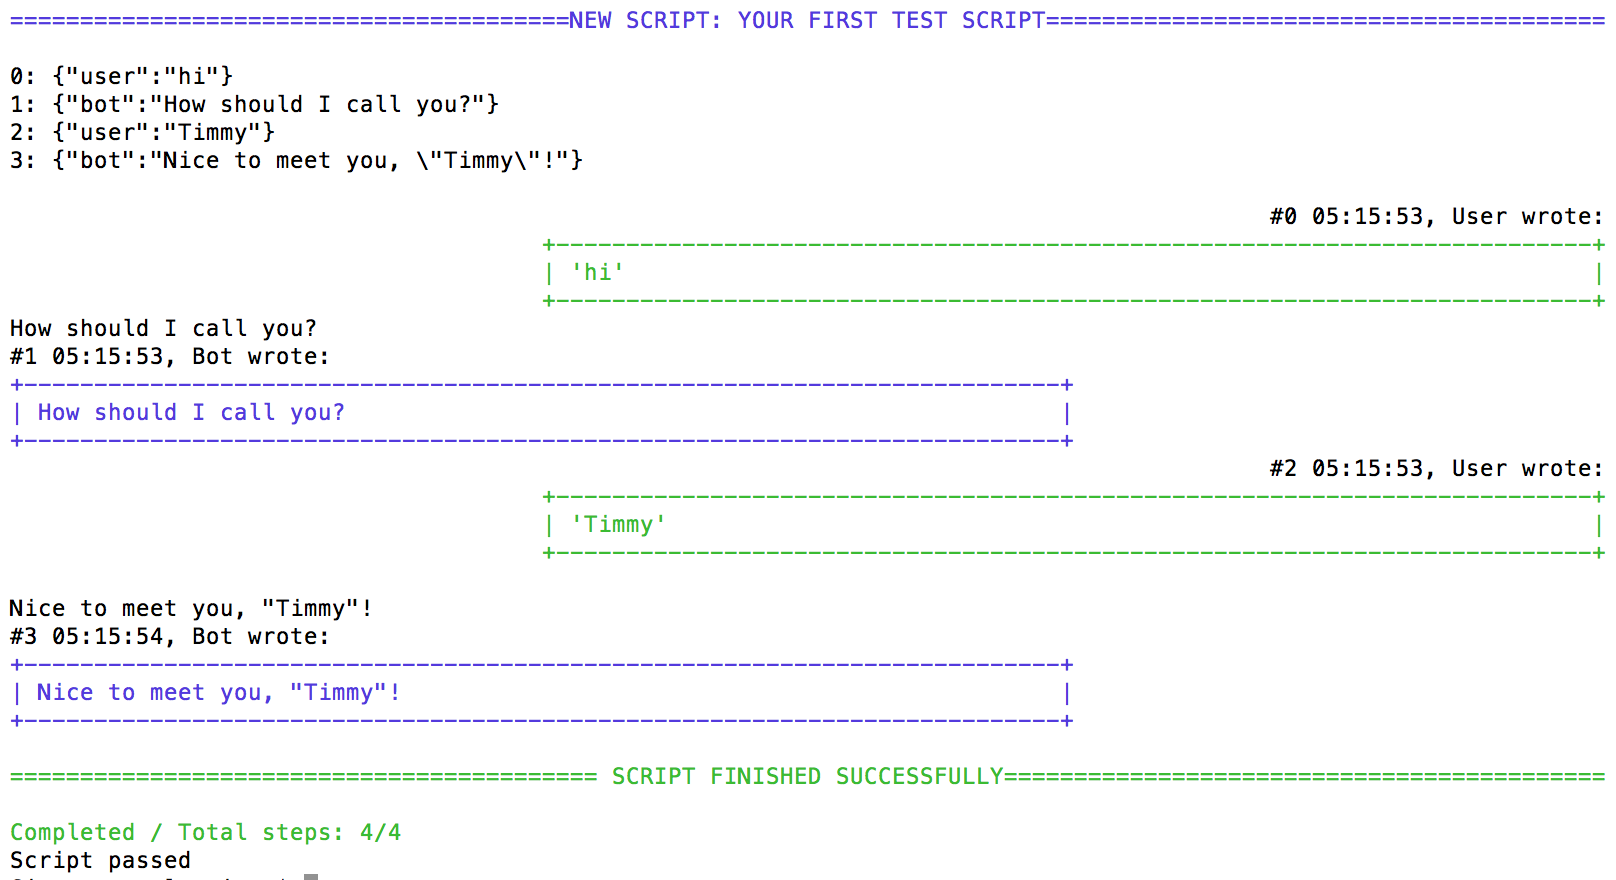
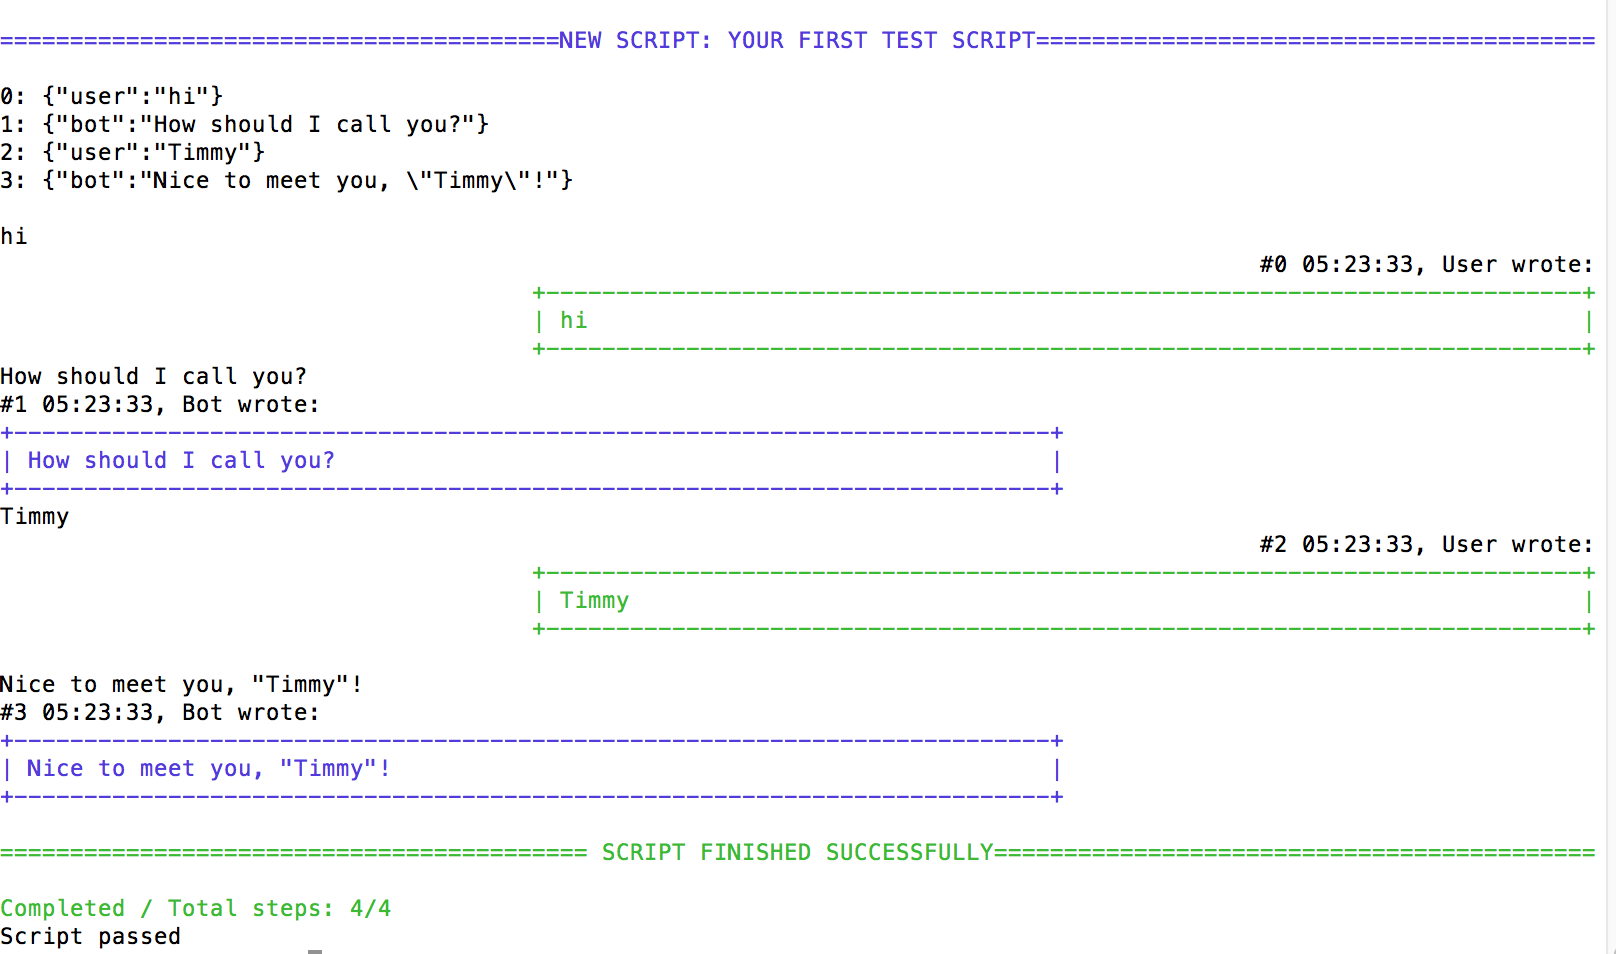
version 0.4.0

diff --git a/README.md b/README.md
@@ -60,15 +60,13 @@ In case, if the message is from the bot, than:
 
 # Quick Start
 
+![Script output for sample script](https://github.com/gudwin/botbuilder-unit/blob/master/examples/example-of-beauty-log.png?raw=true)
+
 ## Install library
 
 `npm install --save-dev botbuilder-unit`
 
-## Install jasmine libraries
-`npm install --save-dev jasmine`
-`npm install --save-dev jasmine-terminal-reporter`
-
-## Create Test Specification
+## Create Test Script
 
 File **"test-script.js"**:
 ```javascript
